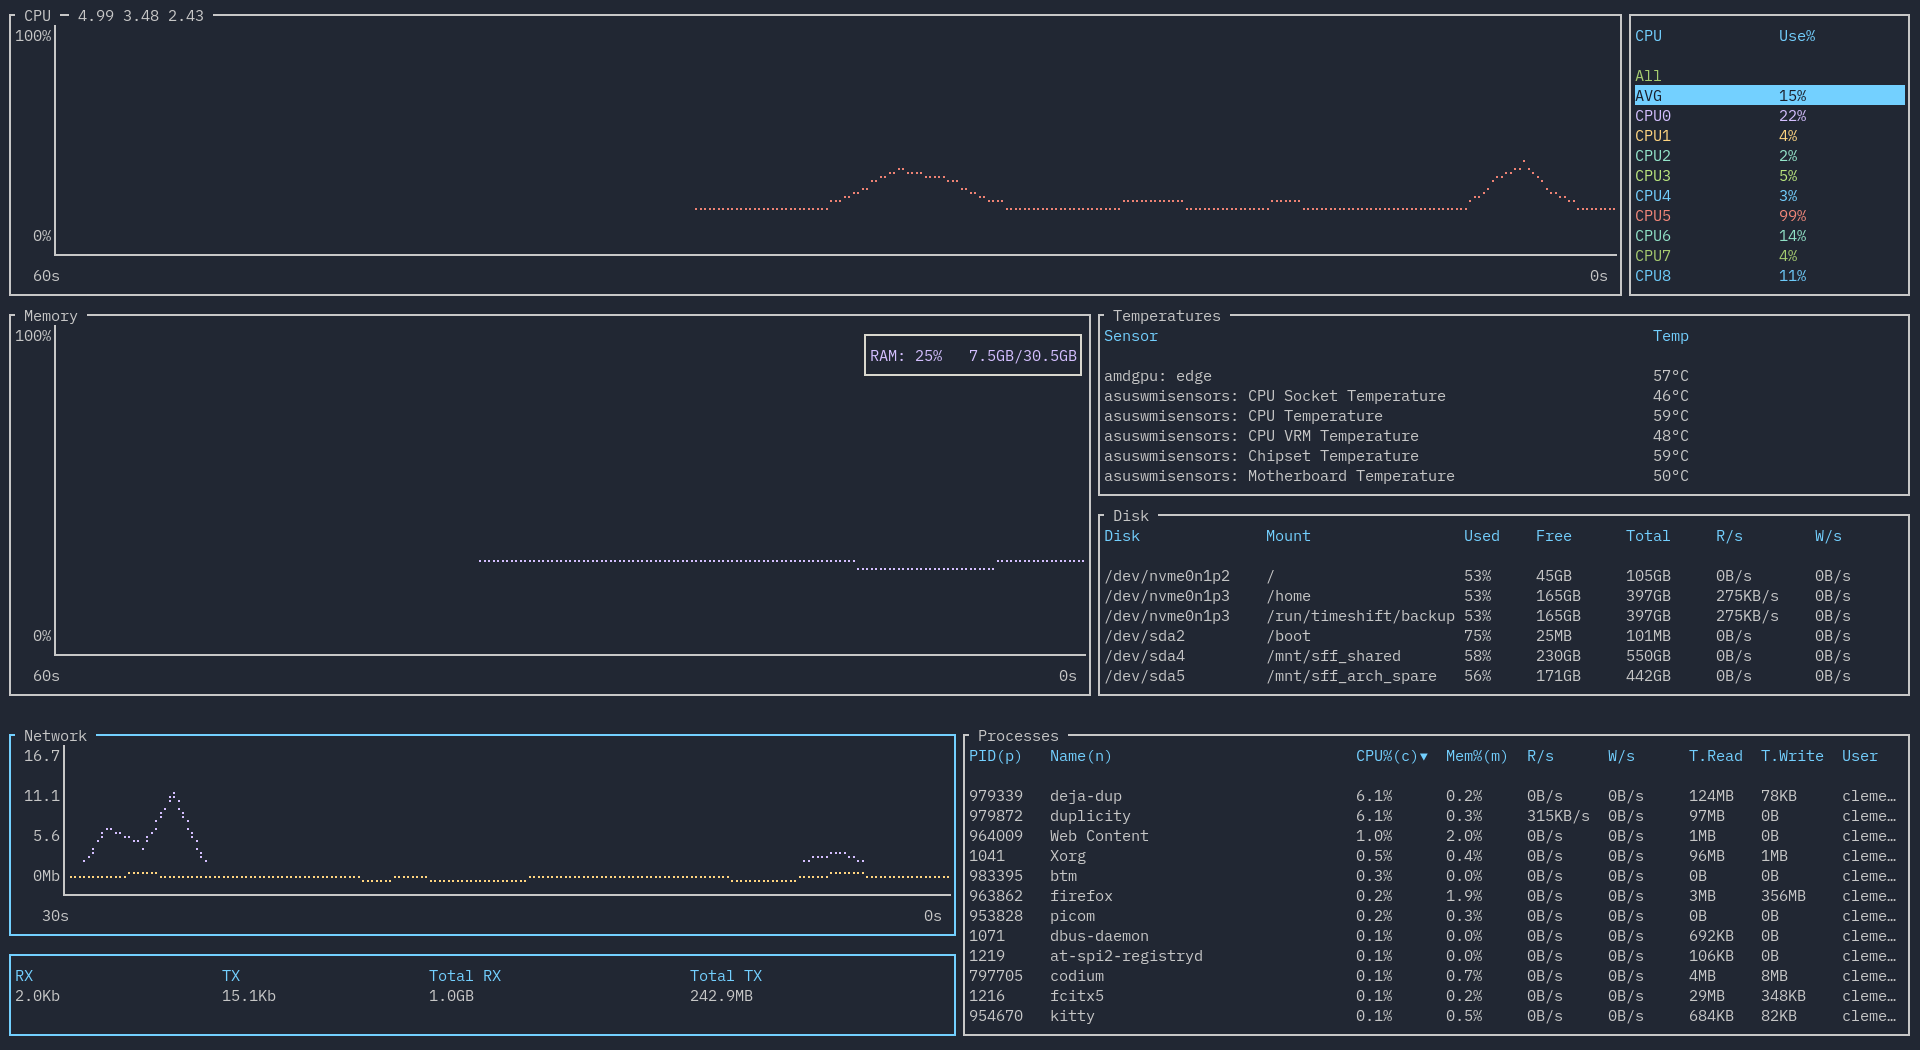
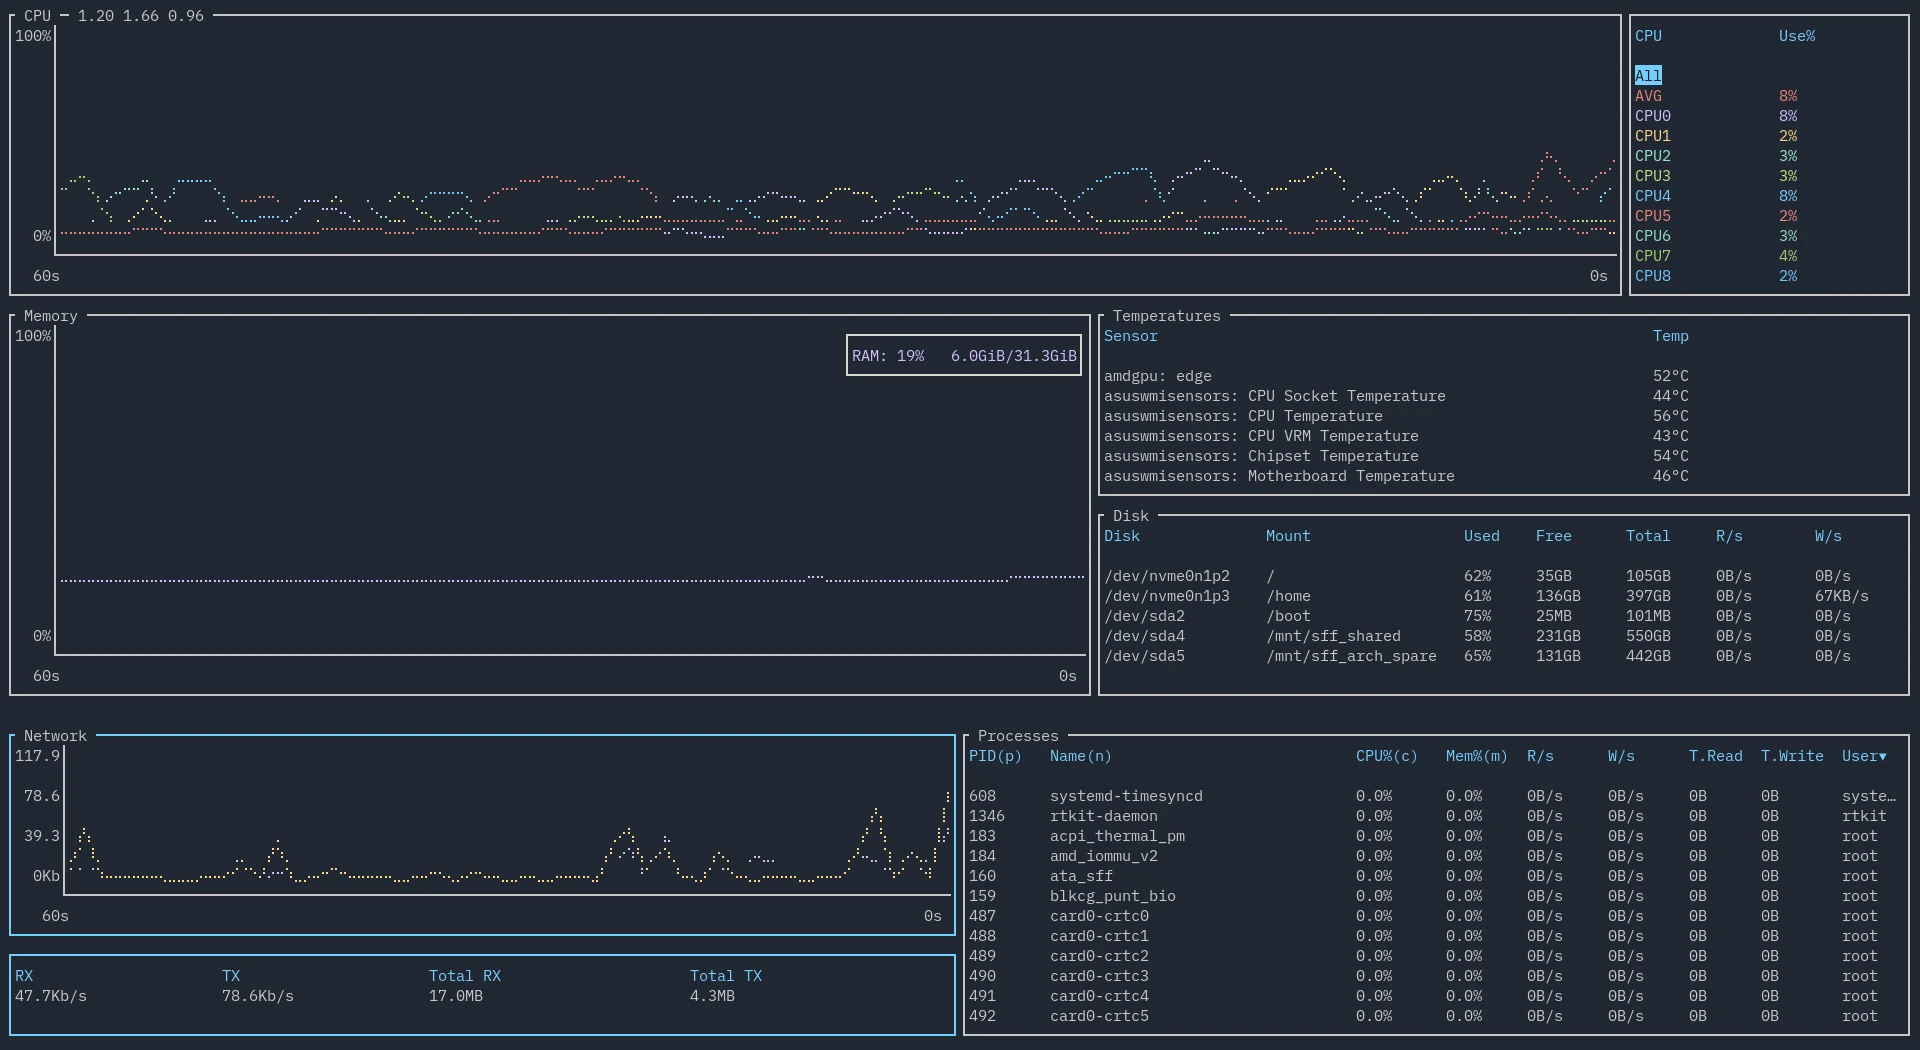
docs

diff --git a/CHANGELOG.md b/CHANGELOG.md
@@ -7,6 +7,10 @@ and this project adheres to [Semantic Versioning](https://semver.org/spec/v2.0.0
 
 ## [0.6.4]/[0.7.0] - Unreleased
 
+## Changes
+
+- [#557](https://github.com/ClementTsang/bottom/pull/557): Add '/s' to network usage legend.
+
 ## Internal Changes
 
 - [#551](https://github.com/ClementTsang/bottom/pull/551): Disable AUR package generation in release pipeline since it's now in community.
